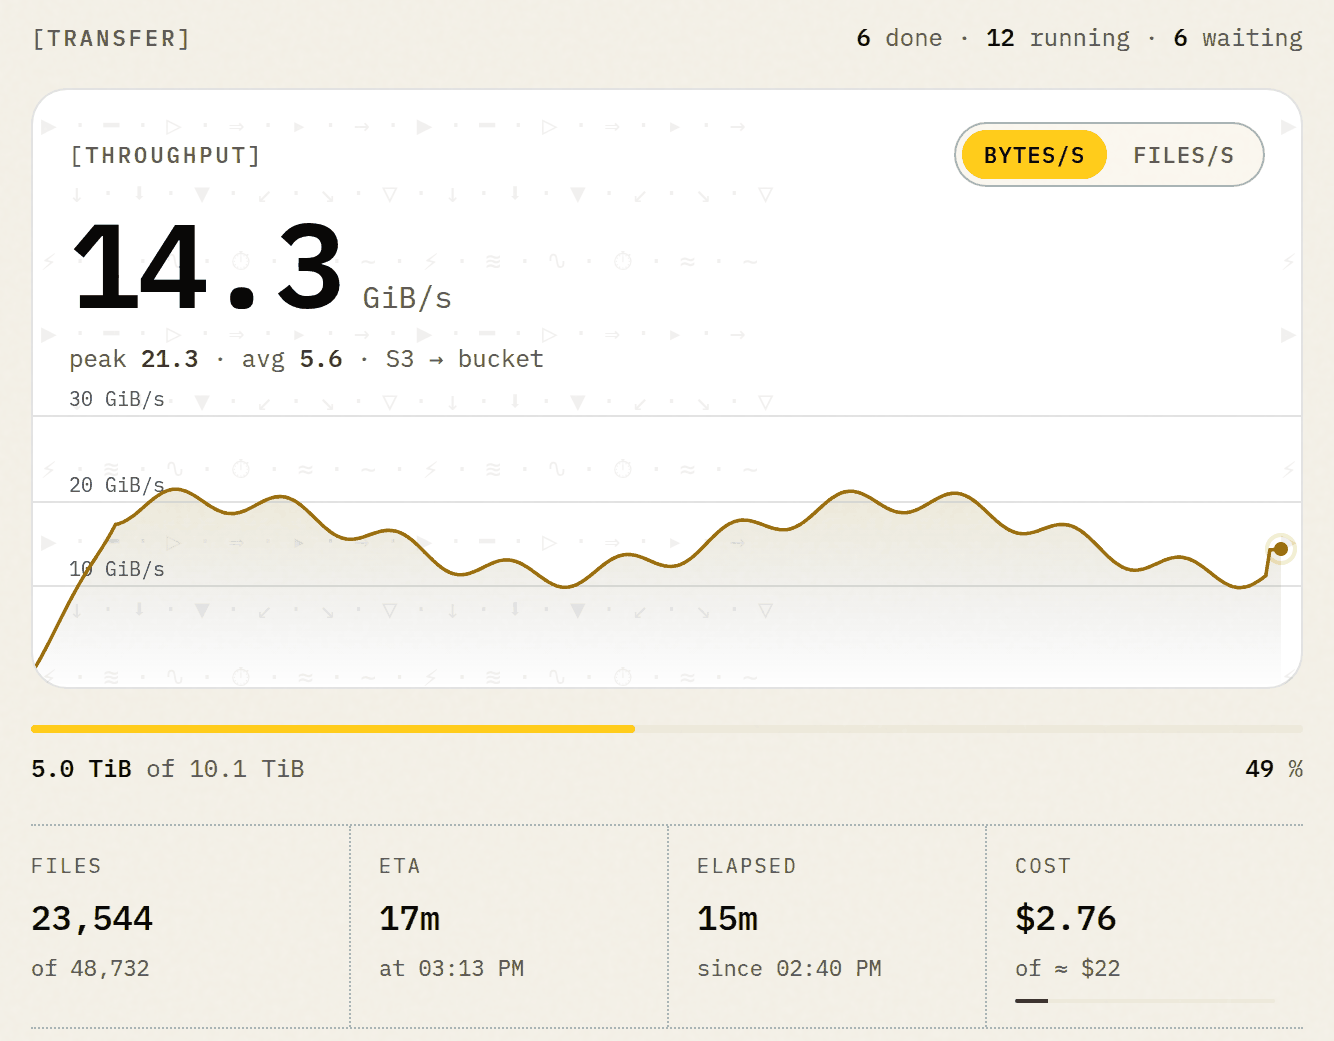
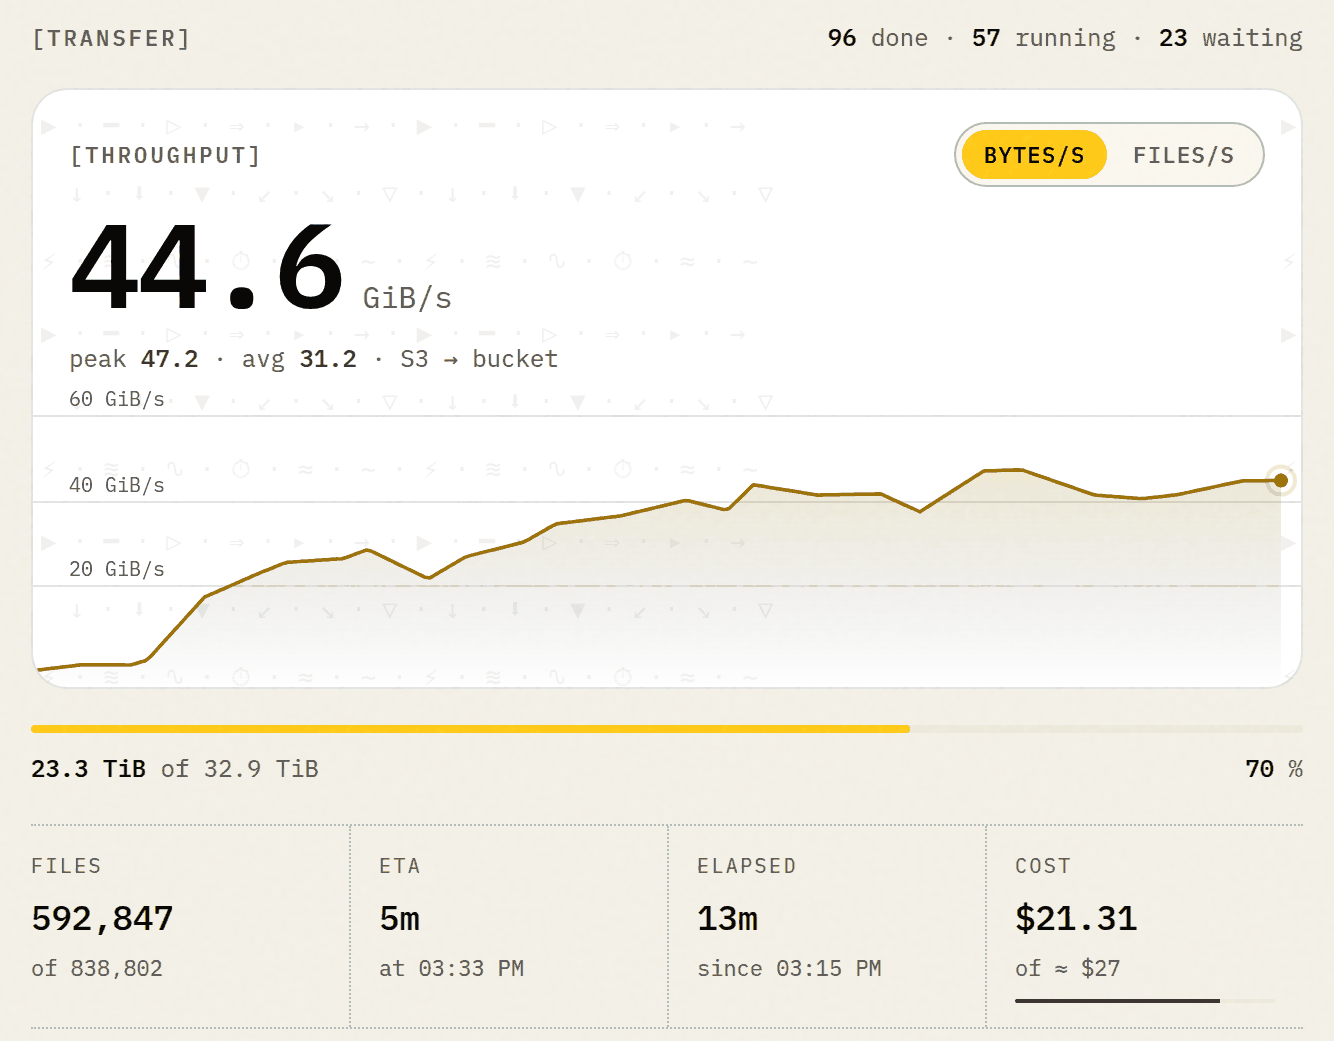
docs(readme): the Space picture replays a real copy
The picture comes from the Space's demo mode, patched in a local copy
(not in this repo) to draw the throughput and the fleet of the 32.9 TiB
copy of docs/images/data/goes18-2024.csv, 12.6 minutes in: the ramp up
to ~45 GiB/s, 96 ranges done, 57 running. Only the costs are synthetic,
and the caption says so.

diff --git a/README.md b/README.md
@@ -10,9 +10,9 @@ Start it the way you prefer: **from a terminal**, with the `hf s3ream` command, 
 
 | From a terminal | From your browser |
 |---|---|
-| ![hf s3ream in a terminal, during a copy of 30.2 TiB: the plan with its time and cost, then the live progress at 43 GiB/s.](docs/images/screenshots/terminal-copy.png) | ![The web Space during a copy: a live graph of the throughput, the files, the time left and the cost so far.](docs/images/screenshots/space-copy.png) |
+| ![hf s3ream in a terminal, during a copy of 30.2 TiB: the plan with its time and cost, then the live progress at 43 GiB/s.](docs/images/screenshots/terminal-copy.png) | ![The web Space during a copy: the throughput grows from 0 to 44.6 GiB/s (peak 47.2) as the fleet grows, with the files, the time left and the cost so far.](docs/images/screenshots/space-copy.png) |
 
-*Left: the figures of a real copy of public NOAA data (30.2 TiB, 756,592 files, 17 min); the names are placeholders. Right: the Space's demo mode (`?demo`), with synthetic data.*
+*Left: the figures of a real copy of public NOAA data (30.2 TiB, 756,592 files, 17 min); the names are placeholders. Right: the Space's demo mode, replaying the throughput and the fleet of another real copy (32.9 TiB, 12.6 minutes in); its costs are synthetic.*
 
 ## Getting started
 
